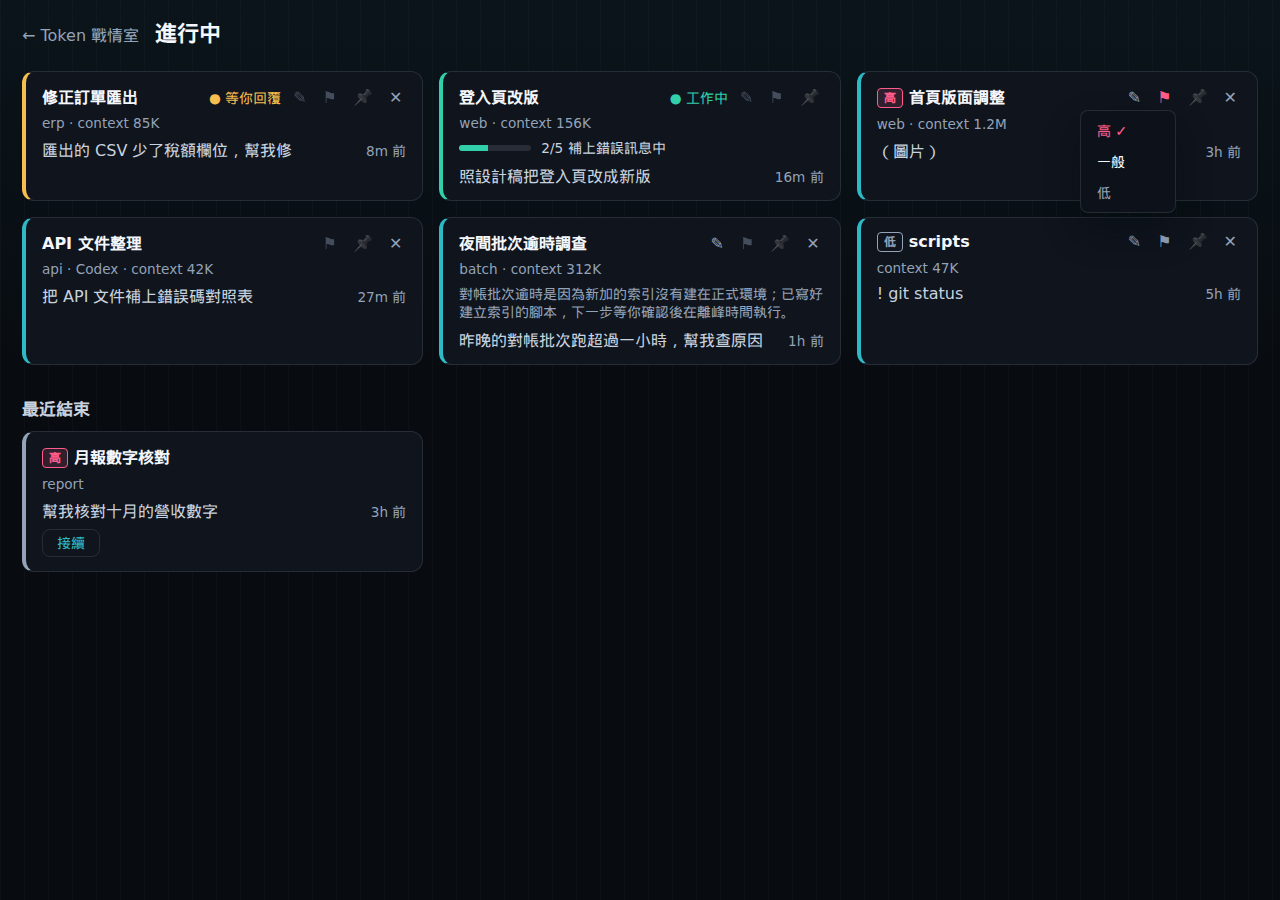
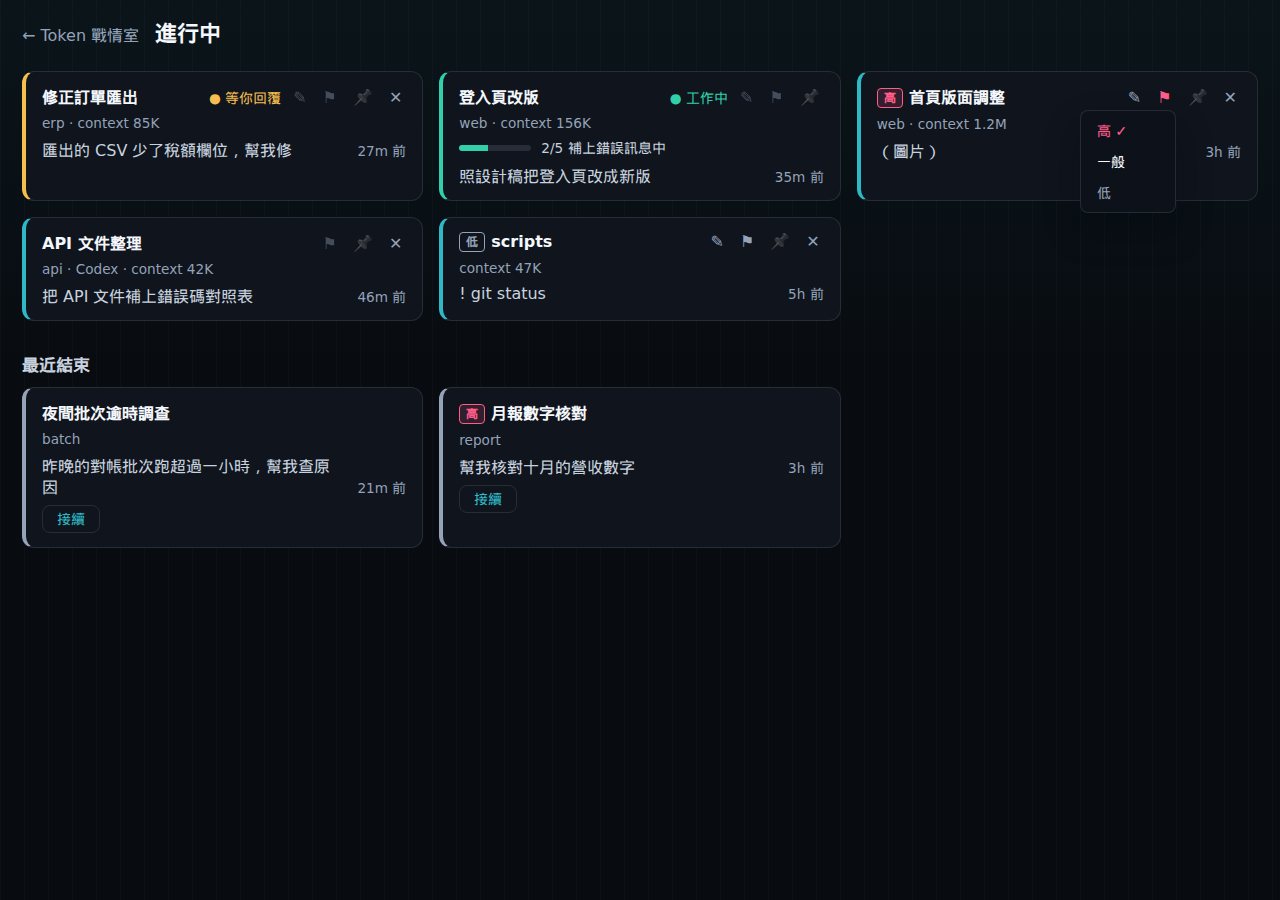
fix(live): 優先度選單放進捲動的 .live-main，捲動時跟著卡片走，下方放不下就往上翻
/mattpocock-skills:code-review 第三輪的發現。Spec：這個頁面捲動的是 .live-main
（height: 100dvh、overflow-y: auto），不是視窗；選單卻放在 body 底下、以視窗座標加
window.scrollY（永遠是 0）定位，捲動卡片清單時選單停在原處，最多 3 秒才在重畫時
追上，⚑ 捲出畫面後選單甚至會被放到畫面外。⚑ 靠近底部時選單也會超出下緣。Standards
沒有硬性違反，只有命名與只列出「誰在用」的註解。

變更細節
- static/live.html：選單移進 <main class="live-main">，與卡片在同一個捲動容器。
- static/live.css：.live-main 加 position: relative，讓選單以它的內容座標定位；
  等級顏色的註解只留「data-level 只用在優先度」。
- static/live.js：
  - placePriorityMenu 以 .live-main 的內容座標定位（加上它的 scrollTop／scrollLeft），
    捲動時選單跟著卡片走；下方放不下、上方放得下時翻到按鈕上方；左右限制在
    .live-main 的寬度內。
  - markPriority 改名 showCurrentLevel（只更新選單的 ✓，與 setPriority 區分）；
    followPriorityMenu 改名 syncPriorityMenu，註解改寫成為什麼要同步。
  - 「點選單以外的地方就關閉」的註解只留「⚑ 自己處理開關」。
- static/card-utils.js：開頭註解改成涵蓋識別與保留規則，拿掉列出使用者的句子。
- .scratch/live-sessions/spec.md：選單在捲動容器裡、下方放不下就往上翻。
- .scratch/live-sessions/screenshots/23-priority-labels-*.png：以最終版重拍（假資料）。

不處理（判斷題）：(live, recent) 一起傳給 isStillListed／prunePins／prunePriorities
（沿用既有 prunePins 的參數）；`priority:${key}` 在建立與查找 ⚑ 時各組一次，與 pin:、
rename:、close: 的寫法一致；「高」「低」文字同時在 PRIORITY_TAG 與 live.html 的選單。

驗證項目
- npm test：59 個全部通過；git diff --check 通過。沒改 Rust，cargo 檢查同上一個
  commit（fmt、clippy、test、release 建置都已通過）。
- 瀏覽器（3014，假資料）：視窗 1280x420 開選單後把 .live-main 捲 60px，選單仍在 ⚑
  下方 4px、右緣對齊；視窗 1280x300 時第二列的 ⚑ 靠近底部，選單翻到 ⚑ 上方 4px；
  390 寬的窄螢幕選單右緣對齊 ⚑；主控台沒有新的錯誤。深色、淺色與窄螢幕重拍確認。

Claude-Session: https://claude.ai/code/session_01XQjGqwAXP34hzxVgKwPSDq

diff --git a/static/live.js b/static/live.js
@@ -214,12 +214,17 @@ function findPriorityButton(key) {
   return document.querySelector(`[data-key="${CSS.escape(`priority:${key}`)}"]`);
 }
 
-// 用頁面座標：捲動時跟著卡片走
+// 選單放在捲動的 .live-main 裡，以它的內容座標定位，捲動時才會跟著卡片走；下方放不下就翻到按鈕上方
 function placePriorityMenu(button) {
+  const area = priorityMenu.offsetParent;
+  const box = area.getBoundingClientRect();
   const rect = button.getBoundingClientRect();
-  const maxLeft = document.documentElement.clientWidth - priorityMenu.offsetWidth - 8;
-  priorityMenu.style.left = `${window.scrollX + Math.max(8, Math.min(rect.right - priorityMenu.offsetWidth, maxLeft))}px`;
-  priorityMenu.style.top = `${window.scrollY + rect.bottom + 4}px`;
+  const { offsetWidth: width, offsetHeight: height } = priorityMenu;
+  const left = Math.max(8, Math.min(rect.right - box.left - width, area.clientWidth - width - 8));
+  const below = rect.bottom + 4 + height <= box.bottom || rect.top - 4 - height < box.top;
+  const top = below ? rect.bottom - box.top + 4 : rect.top - box.top - height - 4;
+  priorityMenu.style.left = `${area.scrollLeft + left}px`;
+  priorityMenu.style.top = `${area.scrollTop + top}px`;
 }
 
 // 開關選單都不重畫卡片：在點下去的當下換掉卡片，這一下就點不到卡片或它的按鈕了
@@ -227,13 +232,13 @@ function openPriorityMenu(key, priority, button) {
   findPriorityButton(priorityMenuKey)?.setAttribute('aria-expanded', 'false');
   priorityMenuKey = key;
   button.setAttribute('aria-expanded', 'true');
-  markPriority(priority);
+  showCurrentLevel(priority);
   priorityMenu.hidden = false;
   placePriorityMenu(button);
   priorityMenu.querySelector('[aria-pressed="true"]').focus();
 }
 
-function markPriority(priority) {
+function showCurrentLevel(priority) {
   for (const item of priorityMenu.querySelectorAll('button')) {
     item.setAttribute('aria-pressed', String(item.dataset.level === priority));
   }
@@ -247,16 +252,16 @@ function closePriorityMenu({ returnFocus = false } = {}) {
   if (returnFocus) button?.focus();
 }
 
-// 重畫或縮放視窗之後：卡片換了位置就跟著移過去，另一個分頁改了等級就更新 ✓；
+// 重畫或縮放視窗後，卡片可能換了位置、等級可能被另一個分頁改了；
 // session 已經不在「進行中」就關掉，「最近結束」的優先度不能改
-function followPriorityMenu() {
+function syncPriorityMenu() {
   if (!priorityMenuKey) return;
   const button = findPriorityButton(priorityMenuKey);
   if (!button) return closePriorityMenu();
   placePriorityMenu(button);
-  markPriority(button.dataset.level);
+  showCurrentLevel(button.dataset.level);
 }
-window.addEventListener('resize', followPriorityMenu);
+window.addEventListener('resize', syncPriorityMenu);
 
 priorityMenu.addEventListener('click', (event) => {
   const item = event.target.closest('button');
@@ -270,7 +275,7 @@ priorityMenu.addEventListener('click', (event) => {
 document.addEventListener('keydown', (event) => {
   if (event.key === 'Escape' && priorityMenuKey && !renameDialog.open) closePriorityMenu({ returnFocus: true });
 });
-// 點選單以外的地方就關閉；⚑ 自己處理開關
+// ⚑ 自己處理開關
 document.addEventListener('pointerdown', (event) => {
   if (priorityMenuKey && !priorityMenu.contains(event.target) && !event.target.closest('.live-priority')) {
     closePriorityMenu();
@@ -456,7 +461,7 @@ function render(data) {
   recentEmpty.hidden = data.recent.length > 0;
   recentList.replaceChildren(...data.recent.map((item) => renderRecent(item, priorityOf(priorities, item))));
   if (focusedKey) document.querySelector(`[data-key="${CSS.escape(focusedKey)}"]`)?.focus();
-  followPriorityMenu();
+  syncPriorityMenu();
   status.textContent = '';
 }
 

diff --git a/static/live.html b/static/live.html
@@ -28,12 +28,12 @@
       <div id="recent-list" class="live-cards"></div>
       <p id="recent-empty" class="live-empty live-empty-small" hidden>24 小時內沒有結束的 session</p>
     </section>
+    <div id="priority-menu" class="live-priority-menu" role="group" aria-label="優先度" hidden>
+      <button type="button" data-level="high">高</button>
+      <button type="button" data-level="normal">一般</button>
+      <button type="button" data-level="low">低</button>
+    </div>
   </main>
-  <div id="priority-menu" class="live-priority-menu" role="group" aria-label="優先度" hidden>
-    <button type="button" data-level="high">高</button>
-    <button type="button" data-level="normal">一般</button>
-    <button type="button" data-level="low">低</button>
-  </div>
   <dialog id="rename-dialog" class="live-dialog" aria-labelledby="rename-title">
     <form id="rename-form" method="dialog">
       <h2 id="rename-title" class="live-dialog-title">改名</h2>

diff --git a/static/card-utils.js b/static/card-utils.js
@@ -1,10 +1,10 @@
-// 「進行中」卡片的識別：釘選、優先度、關閉與改名都以 `agent:id` 對應到 session。
+// 「進行中」卡片的識別（`agent:id`）與釘選、優先度的保留規則。
 
 export function cardKey(session) {
   return `${session.agent}:${session.id}`;
 }
 
-// 釘選與優先度共用的保留規則。接續不會換 id：結束的 session 還在「最近結束」時保留，接續後才對得上。
+// 接續不會換 id：結束的 session 還在「最近結束」時保留，接續後才對得上。
 // 兩份都空時一律保留：後端讀取失敗也回空清單（live.rs 的 unwrap_or_default），不能因此清光
 export function isStillListed(key, live, recent) {
   if (live.length === 0 && recent.length === 0) return true;

diff --git a/static/live.css b/static/live.css
@@ -1,5 +1,6 @@
 /* 「進行中」頁面：沿用看板的主題變數（深色／淺色），卡片依寬度自動多欄。 */
 .live-main {
+  position: relative; /* 優先度選單以它的內容座標定位，捲動時跟著卡片走 */
   height: 100dvh;
   overflow-y: auto;
   padding: var(--space-5, 24px);
@@ -274,7 +275,7 @@
   opacity: 0.8;
 }
 
-/* 標籤、⚑ 與選單共用的等級顏色；data-level 只用在優先度 */
+/* data-level 只用在優先度 */
 [data-level="high"] {
   --priority-color: var(--neon-red);
 }
